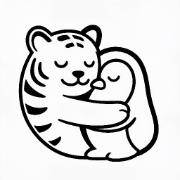
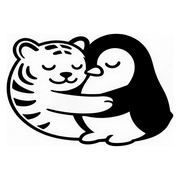
feat(admin): 後台可直接刪除孩子與家庭；更換網站圖示
- 家庭頁每位成員、家庭本身都可「刪除」（直接刪除，無法復原），使用頁面內確認視窗
- 在未封存的活動還有進行中的報名時擋下，列出活動名稱，需先取消報名
- 資料表新增 deletableBy：家庭、成員允許後台刪除（不能新增）
- 五個系統的 favicon／icon／apple-icon 換成新圖

diff --git a/apps/admin/lib/family-actions.ts b/apps/admin/lib/family-actions.ts
@@ -2,9 +2,9 @@
 
 import { revalidatePath } from 'next/cache';
 import { requireSession } from '@kids/auth/next';
-import { HouseholdTable, MemberTable, nowString } from '@kids/schema';
+import { HouseholdTable, MemberTable, RegistrationStatus, isArchivedEvent, nowString } from '@kids/schema';
 import type { FormResult } from '@kids/ui/client';
-import { households, members } from './tables';
+import { events, households, members, registrations } from './tables';
 
 /** PIN 相關欄位不在表單上（只能用「重設 PIN」清空），否則儲存聯絡資料時會被當成空白而清掉 */
 const PIN_FIELDS = ['PIN雜湊', 'PIN錯誤次數', 'PIN鎖定至'] as const;
@@ -58,4 +58,48 @@ export async function saveMember(成員ID: string, _: FormResult, formData: Form
   await members().updateByIds([{ id: 成員ID, changes }]);
   revalidatePath(`/families/${current.家庭ID}`);
   return { message: `已儲存 ${changes.姓名 ?? current.姓名}` };
+}
+
+/** 在還沒封存的活動有進行中報名的活動名稱（刪除前檢查用） */
+async function activeEventsOf(成員IDs: string[]): Promise<string[]> {
+  const ids = new Set(成員IDs);
+  const list = (await events().all()).filter((e) => !isArchivedEvent(e));
+  const hits = await Promise.all(
+    list.map(async (e) =>
+      (await registrations(e.活動ID).all({ fresh: true }).catch(() => [])).some((r) => ids.has(r.成員ID) && r.狀態 !== RegistrationStatus.Cancelled)
+        ? e.名稱
+        : null,
+    ),
+  );
+  return hits.filter((n): n is string => !!n);
+}
+
+/**
+ * 直接刪除成員（不是封存，無法復原）。
+ * 在還沒封存的活動有進行中的報名時不能刪，請先到該活動的「報名」把報名取消；已取消的報名紀錄保留姓名供查詢。
+ */
+export async function deleteMember(成員ID: string): Promise<{ error?: string }> {
+  requireSession({ permission: 'families' });
+  const current = await members().findById(成員ID, { fresh: true });
+  if (!current) return { error: '找不到此成員' };
+  const active = await activeEventsOf([成員ID]);
+  if (active.length) return { error: `${current.姓名} 在「${active.join('」、「')}」還有報名，請先到該活動的「報名」取消後再刪除` };
+  await members().deleteByIds([成員ID]);
+  revalidatePath(`/families/${current.家庭ID}`);
+  revalidatePath('/families');
+  return {};
+}
+
+/** 直接刪除家庭與所有成員（無法復原）；任何成員還有進行中的報名時不能刪 */
+export async function deleteHousehold(家庭ID: string): Promise<{ error?: string }> {
+  requireSession({ permission: 'families' });
+  const current = await households().findById(家庭ID, { fresh: true });
+  if (!current) return { error: '找不到此家庭' };
+  const mm = (await members().all({ fresh: true })).filter((m) => m.家庭ID === 家庭ID);
+  const active = await activeEventsOf(mm.map((m) => m.成員ID));
+  if (active.length) return { error: `這個家庭在「${active.join('」、「')}」還有報名，請先到該活動的「報名」取消後再刪除` };
+  await members().deleteByIds(mm.map((m) => m.成員ID));
+  await households().deleteByIds([家庭ID]);
+  revalidatePath('/families');
+  return {};
 }

diff --git a/apps/admin/app/(main)/families/[householdId]/page.tsx b/apps/admin/app/(main)/families/[householdId]/page.tsx
@@ -4,8 +4,9 @@ import { Badge, Card, Field, Input, Select, Textarea } from '@kids/ui';
 import { ActionForm, SubmitButton } from '@kids/ui/client';
 import { requireSession } from '@kids/auth/next';
 import { MemberType, gradeChoices } from '@kids/schema';
-import { resetHouseholdPin, saveHousehold, saveMember } from '@/lib/family-actions';
+import { deleteHousehold, deleteMember, resetHouseholdPin, saveHousehold, saveMember } from '@/lib/family-actions';
 import { households, members } from '@/lib/tables';
+import { DeleteButton } from '@/components/DeleteButton';
 
 export default async function FamilyPage({ params }: { params: { householdId: string } }) {
   requireSession({ permission: 'families' });
@@ -17,7 +18,20 @@ export default async function FamilyPage({ params }: { params: { householdId: st
       <Link href="/families" className="text-sm text-gray-500">
         ← 家庭與成員
       </Link>
-      <Card title={`家庭：${h.主要聯絡人}`} actions={<span className="font-mono text-xs text-gray-400">{h.家庭ID}</span>}>
+      <Card
+        title={`家庭：${h.主要聯絡人}`}
+        actions={
+          <div className="flex items-center gap-2">
+            <span className="font-mono text-xs text-gray-400">{h.家庭ID}</span>
+            <DeleteButton
+              title={`刪除 ${h.主要聯絡人} 的家庭？`}
+              description={`會直接刪除家庭資料與 ${mm.length} 位成員（${mm.map((m) => m.姓名).join('、') || '無'}），無法復原。`}
+              action={deleteHousehold.bind(null, h.家庭ID)}
+              redirectTo="/families"
+            />
+          </div>
+        }
+      >
         <ActionForm action={saveHousehold.bind(null, h.家庭ID)} className="grid gap-3 sm:grid-cols-2">
           <Field label="主要聯絡人">
             <Input name="contact" defaultValue={h.主要聯絡人} />
@@ -51,7 +65,16 @@ export default async function FamilyPage({ params }: { params: { householdId: st
         </div>
       </Card>
       {mm.map((m) => (
-        <Card key={m.成員ID} title={m.姓名} actions={<span className="font-mono text-xs text-gray-400">{m.成員ID}</span>}>
+        <Card
+          key={m.成員ID}
+          title={m.姓名}
+          actions={
+            <div className="flex items-center gap-2">
+              <span className="font-mono text-xs text-gray-400">{m.成員ID}</span>
+              <DeleteButton title={`刪除 ${m.姓名}？`} description="會直接刪除這位成員的資料，無法復原。" action={deleteMember.bind(null, m.成員ID)} />
+            </div>
+          }
+        >
           <ActionForm action={saveMember.bind(null, m.成員ID)} className="grid gap-3 sm:grid-cols-4">
             <Field label="姓名">
               <Input name="name" defaultValue={m.姓名} />

diff --git a/apps/admin/components/DeleteButton.tsx b/apps/admin/components/DeleteButton.tsx
@@ -1,0 +1,66 @@
+'use client';
+
+import { useState, useTransition } from 'react';
+import { useRouter } from 'next/navigation';
+import { Alert, Button } from '@kids/ui';
+
+/** 直接刪除（無法復原）的按鈕：頁面內確認視窗（瀏覽器的 confirm() 在部分環境不支援）；刪除後可轉到指定頁面 */
+export function DeleteButton({
+  title,
+  description,
+  action,
+  redirectTo,
+}: {
+  title: string;
+  description: string;
+  action: () => Promise<{ error?: string }>;
+  redirectTo?: string;
+}) {
+  const router = useRouter();
+  const [open, setOpen] = useState(false);
+  const [error, setError] = useState('');
+  const [pending, startTransition] = useTransition();
+  const run = () =>
+    startTransition(async () => {
+      const res = await action();
+      if (res.error) return setError(res.error);
+      setOpen(false);
+      if (redirectTo) router.push(redirectTo);
+    });
+  return (
+    <>
+      <Button
+        size="sm"
+        variant="ghost"
+        className="text-red-600"
+        onClick={() => {
+          setError('');
+          setOpen(true);
+        }}
+      >
+        刪除
+      </Button>
+      {open && (
+        <div className="fixed inset-0 z-50 flex items-center justify-center bg-black/50 p-4" role="alertdialog" aria-modal="true">
+          <div className="w-full max-w-sm rounded-3xl bg-white p-6 text-left shadow-xl">
+            <p className="text-lg font-bold">{title}</p>
+            <p className="mt-2 text-sm font-normal text-gray-600">{description}</p>
+            {error && (
+              <div className="mt-3 text-sm font-normal">
+                <Alert>{error}</Alert>
+              </div>
+            )}
+            <div className="mt-6 flex justify-end gap-2">
+              <Button variant="secondary" autoFocus onClick={() => setOpen(false)}>
+                返回
+              </Button>
+              <Button variant="danger" onClick={run} disabled={pending}>
+                {pending ? '刪除中…' : '確認刪除'}
+              </Button>
+            </div>
+          </div>
+        </div>
+      )}
+    </>
+  );
+}

diff --git a/packages/schema/src/tables.ts b/packages/schema/src/tables.ts
@@ -26,6 +26,8 @@ export interface TableDef<H extends string = string> {
   owner: SystemName | OwnerByColumn<H>;
   /** 其他系統可更新的欄位 */
   updatableBy?: Partial<Record<SystemName, readonly H[]>>;
+  /** owner 以外可以刪除列（不能新增）的系統 */
+  deletableBy?: readonly SystemName[];
   /** 主鍵以外的唯一鍵（同一 scope 內） */
   uniqueKeys?: readonly (readonly H[])[];
   /** 可在 Google Sheet 上修改並寫回資料庫的欄位（可含 displayColumns） */
@@ -61,6 +63,8 @@ export const HouseholdTable = defineTable({
   updatableBy: { admin: ['主要聯絡人', '電話', 'Email', '地址', '更新時間', 'PIN雜湊', 'PIN錯誤次數', 'PIN鎖定至'] },
   sheetEditable: ['主要聯絡人', '電話', 'Email', '地址'],
   mirrorExclude: ['PIN雜湊', 'PIN錯誤次數', 'PIN鎖定至'],
+  // 後台可刪除家庭（連同成員；有進行中的報名時由後台擋下）
+  deletableBy: ['admin'],
 });
 
 export const MemberTable = defineTable({
@@ -77,6 +81,8 @@ export const MemberTable = defineTable({
     admin: ['姓名', '性別', '生日', '年級', '學校', '類型', '特殊需求', '更新時間'],
     checkin: ['特殊需求', '更新時間'], // 第一次報到補資料
   },
+  // 後台可刪除孩子（有進行中的報名時由後台擋下）
+  deletableBy: ['admin'],
   sheetEditable: ['姓名', '性別', '生日', '年級', '學校', '類型', '特殊需求'],
 });
 

diff --git a/packages/sheets-core/src/table.ts b/packages/sheets-core/src/table.ts
@@ -127,8 +127,11 @@ export class SheetTable<T extends TableDef> {
     this.assertWritable();
     const rows = await this.all({ fresh: true });
     const targets = rows.filter((r) => ids.includes(String(r[this.def.idColumn as keyof RowOf<T>])));
-    if (typeof this.def.owner === 'string') this.assertOwnerOf([{}]);
-    this.assertOwnerOf(targets);
+    // deletableBy 列出的系統可以刪除（但不能新增）
+    if (!this.def.deletableBy?.includes(this.actor)) {
+      if (typeof this.def.owner === 'string') this.assertOwnerOf([{}]);
+      this.assertOwnerOf(targets);
+    }
     await this.store.deleteByIds(ids);
     this.written();
   }
